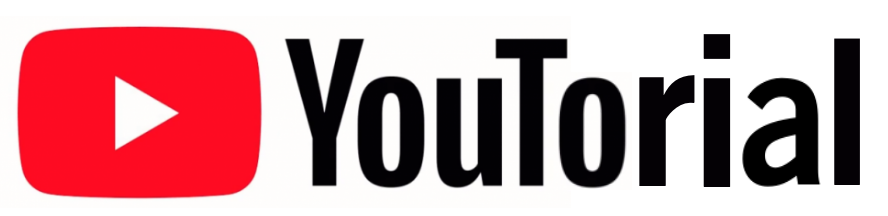
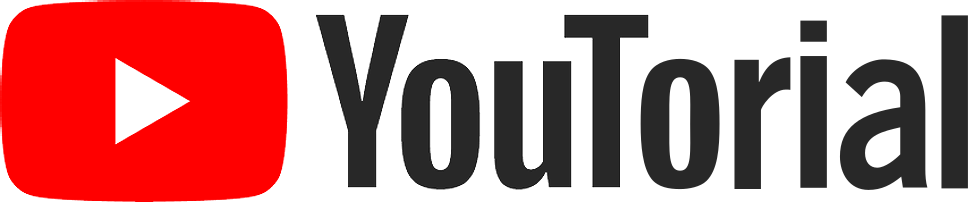
gui added sidebar

diff --git a/gui/streamer.py b/gui/streamer.py
@@ -19,15 +19,25 @@ def main():
     # paste video IDs with base youtube url 
     def get_urls(query_ids):
         urls = []
-        for i in range(0,4):
+        for i in range(0,5):
             url = base_url + f"{query_ids[i]}"
             urls.append(url)
         return urls
     
     top_urls = get_urls(query_ids)
+    
     st.set_page_config(layout="wide")
-    st.image('gui/youtorial_logo.png')
-    st.write("Based on our algorithm, these are your top five recommended tutorials:")
+    st.image('gui/youtorial.png')
+    st.subheader("Based on our algorithm, these are your top five recommended tutorials:")
+
+    with st.sidebar:
+        c1, c2 = st.columns(2)
+        with c1:
+            st.image('gui/home.png')
+            st.image('gui/compass.png')
+        with c2: 
+            st.header('Home')
+            st.header('About')
 
     with st.container(): 
     # Embed top 5 youtube videos 

diff --git a/gui/streamer_wide.py b/gui/streamer_wide.py
@@ -24,12 +24,22 @@ def main():
             url = base_url + f"{query_ids[i]}"
             urls.append(url)
         return urls
-    
+
     top_urls = get_urls(query_ids)
     st.set_page_config(layout="wide")
-    st.image('gui/youtorial_logo.png')
-    st.subheader("Based on our algorithm, these are your top five recommended tutorials:")
+    st.image('gui/youtorial.png')
+    st.header("Based on our algorithm, these are your top five recommended tutorials:")
+    
+    with st.sidebar:
+        c1, c2 = st.columns(2)
+        with c1:
+            st.image('gui/home.png')
+            st.image('gui/compass.png')
+        with c2: 
+            st.header('Home')
+            st.header('About')
 
+    col1, col2, col3, col4, col5 = st.columns(5)    
     with col1:
         event = st_player(top_urls[0])
         st.write(event)
